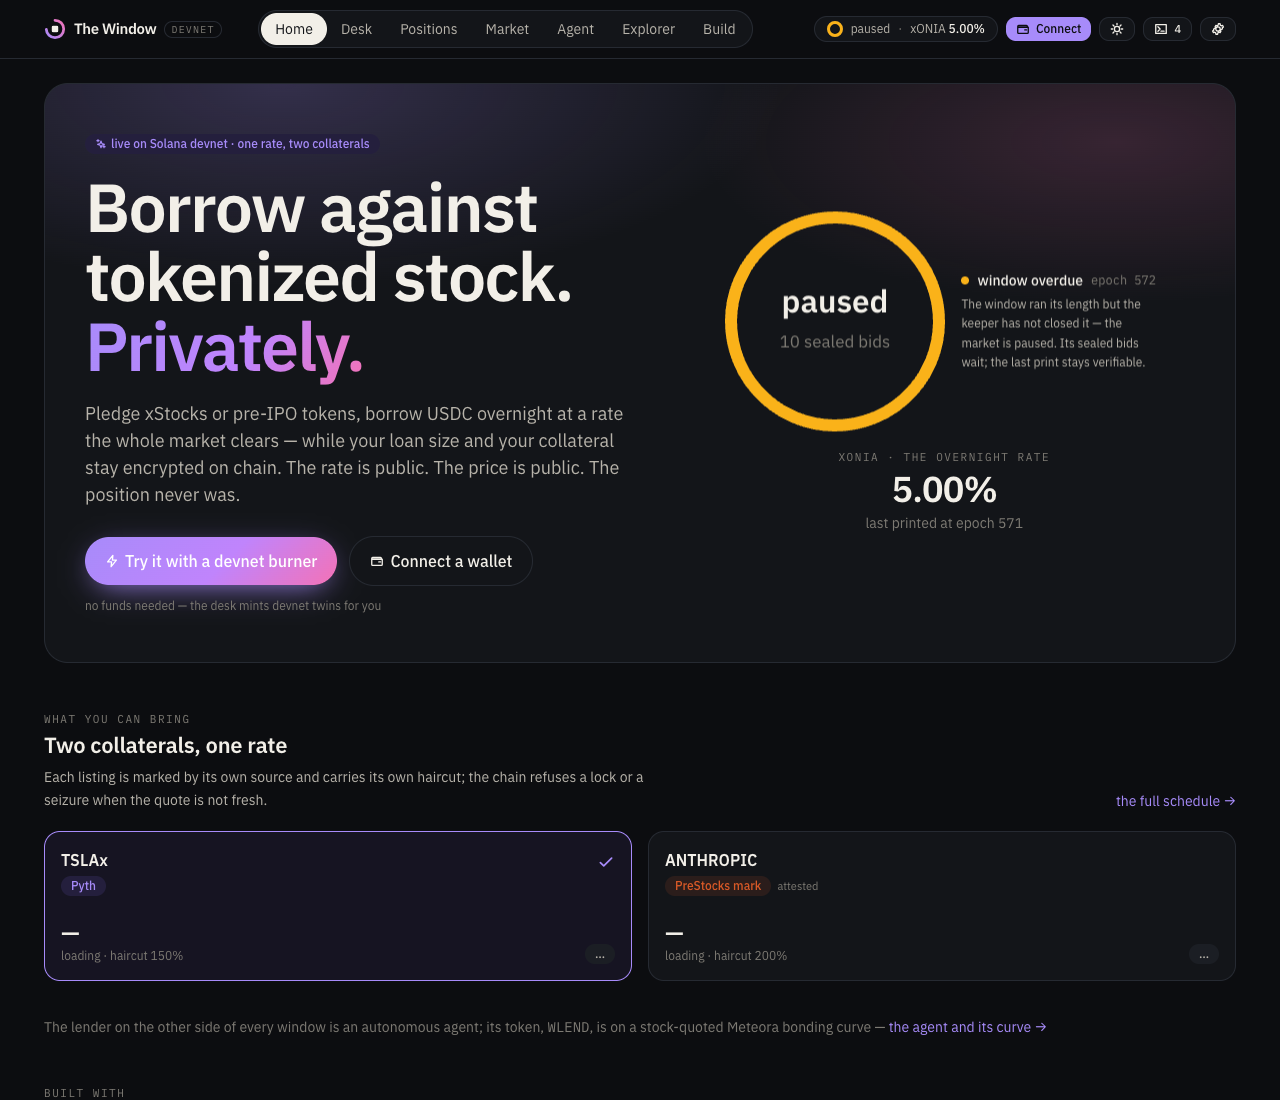
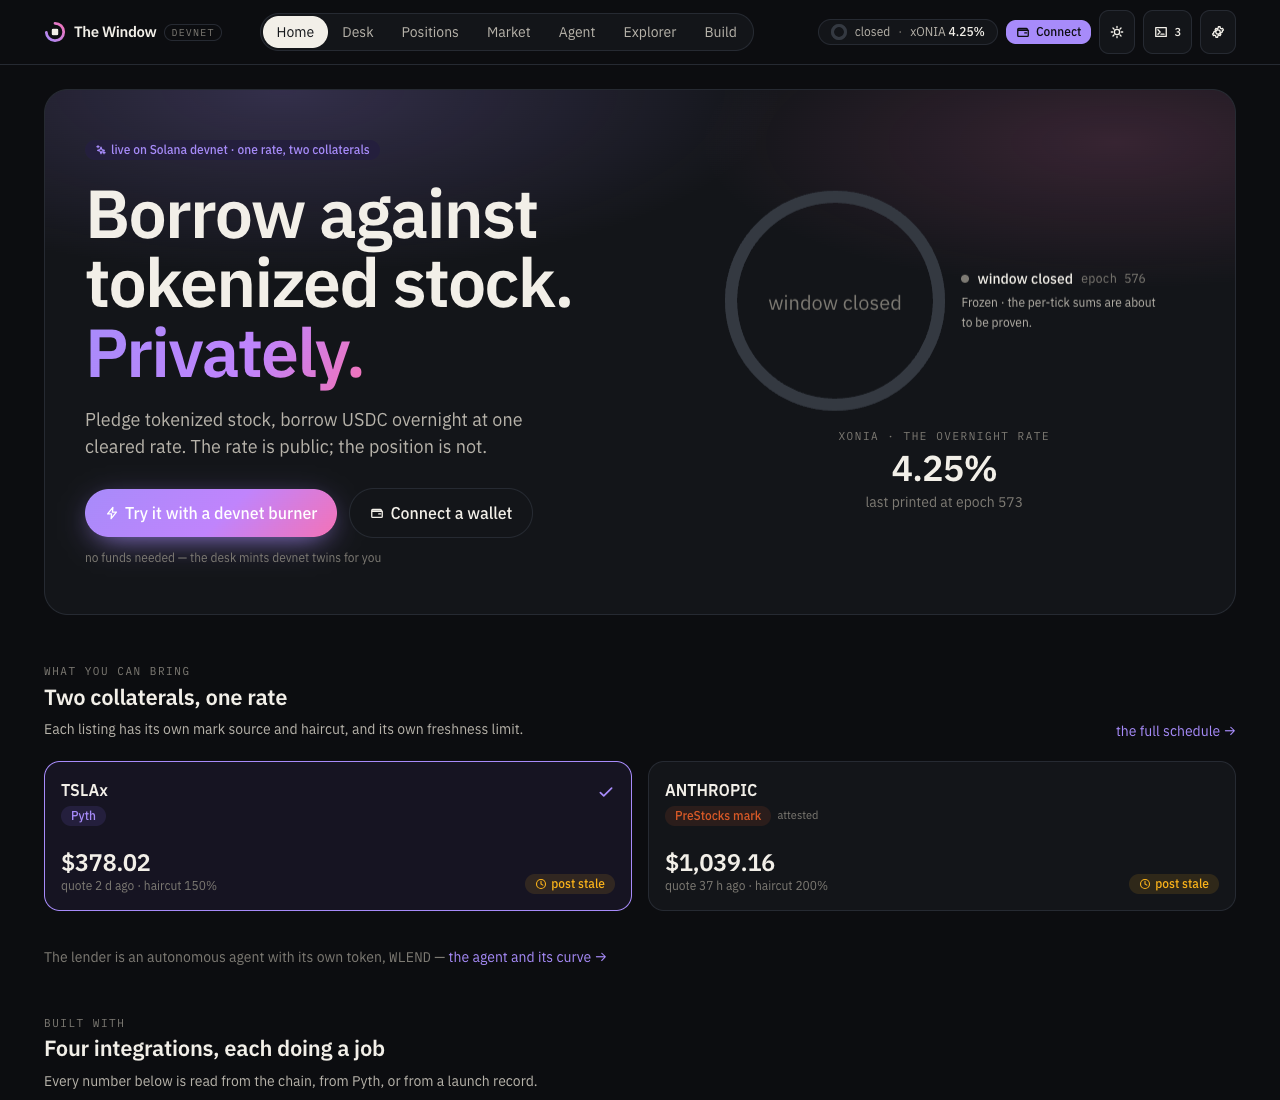
docs: the mainnet pool on the record, and fourteen screenshots that match what is live
The addresses a judge is pointed at should be the ones that exist, so DEMO.md §B now leads
with the mainnet pool, its config and mint, the TSLAx quote, the fee claimer and the
creator that signs but earns nothing, and the LENDER coin on pump.fun — with the devnet
rehearsal kept underneath as what ran first. TRACKS gets the dated entry, including why
the creator cannot be the agent and how offset 245 was established rather than guessed.

`docs/screens/*.png` predated every change in the last two days: the clock fix, the
backdrop, both developer pages, and the copy that is now a third shorter. All fourteen are
re-taken from the live Pages site with `motion=off`, so the field behind the page is held
still and a future re-take differs only where the page does.

diff --git a/docs/TRACKS.md b/docs/TRACKS.md
@@ -293,6 +293,44 @@ from 14 named checks to 25 and all pass, and the write track ran for real from `
 onboard → wrap → bid, five confirmed transactions — and from `#/agent`, whose browser agent sealed
 `lend @ tick 13, 1,571 USDC` in epoch 215. 275 unit tests.
 
+## 25 Sep, later: the pool is on mainnet, and the fees actually reach the agent
+
+The mainnet launch refused to send, and for a good reason. Meteora makes a pool's creator a **signer**;
+the plan set the creator to the agent's Clawpump wallet; and that wallet's key belongs to Clawpump. So
+"the creator is the agent" was never achievable, and the design had conflated two different things.
+
+The fee claimer and the leftover receiver are plain config fields with no signature attached. They are
+now separate from the creator: the launch key signs, the agent claims, and the creator's own shares —
+`creatorTradingFeePercentage` and the migration fee's creator share — are **zero**, so signing earns
+nothing and everything the pool produces reaches one wallet a judge can watch. That is a stronger claim
+than the 50/10 split it replaces, and unlike it, it is true.
+
+| | |
+|---|---|
+| pool | [`Gk98wZsNHAp6i4FEmJ7SwwbQM3tU2n47NXeBaCtFDQux`](https://solscan.io/account/Gk98wZsNHAp6i4FEmJ7SwwbQM3tU2n47NXeBaCtFDQux) |
+| config | [`7JyhrdUxYZ25tUPbHb3mdzHt8gv9Ht9dYv3k756XB5dx`](https://solscan.io/account/7JyhrdUxYZ25tUPbHb3mdzHt8gv9Ht9dYv3k756XB5dx) |
+| WLEND | [`3SpA841y3UGANRnnEosbW8D7q1zirfzCh6ysF3goeBDh`](https://solscan.io/account/3SpA841y3UGANRnnEosbW8D7q1zirfzCh6ysF3goeBDh) |
+| quoted in | TSLAx `XsDoVfqeBukxuZHWhdvWHBhgEHjGNst4MLodqsJHzoB`, priced from `Equity.US.TSLA/USD` at $367.86 |
+| signs, earns nothing | [`3bku8abYECxZxfoXDsTjcCCBv7JMF6BKTREeJLeVDnJX`](https://solscan.io/account/3bku8abYECxZxfoXDsTjcCCBv7JMF6BKTREeJLeVDnJX) |
+| claims every fee | [`39VKQn2Skp67mFYfiFfvRLEKsxaTtHqQWRop5q9cA7sM`](https://solscan.io/account/39VKQn2Skp67mFYfiFfvRLEKsxaTtHqQWRop5q9cA7sM) — The Window Lender |
+| identity coin | `LENDER` [`D9K6pbsDYR7bcj4ugucabzF9rtfVb9AAhNPJgTEzh92k`](https://pump.fun/coin/D9K6pbsDYR7bcj4ugucabzF9rtfVb9AAhNPJgTEzh92k), paired with TSLAx, paid for by the agent's own wallet |
+
+The dashboard's claim moved with the arrangement. "Fees flow to the agent" used to test whether the
+agent was both creator and claimer — after this, impossible — so it now tests what decides the money:
+the claimer is the agent, and the creator keeps none. Reading that needed
+`creatorTradingFeePercentage` in the SDK's raw config decoder, and a byte offset against real funds is
+not something to guess: **offset 245** was found by reading both clusters' live config accounts and
+keeping the single byte that was 0 on mainnet and 50 on devnet, and a fixture test pins it.
+
+Two smaller faults the launch exposed. The identity coin was first recorded against devnet because
+`LAUNCH_CLUSTER` was unset, and a mainnet mint in the devnet file made the page report "identity coin
+pending" about a coin that was already trading — pump.fun has no devnet, so the coin now records
+against the mainnet launch whenever one exists. And `launch-status`'s snippet stopped naming the desk's
+RPC, because the pool it reads is on another cluster; the test that every recipe leads with the
+configured endpoint now states why that one differs rather than failing.
+
+The Agent page reads **5 of 5**, on mainnet, with a live Jupiter link.
+
 ## Submission blurbs (final)
 
 **Pyth.** THE WINDOW is a private margin desk for tokenized stocks. Pyth is not a widget on it — it is a

diff --git a/README.md b/README.md
@@ -29,7 +29,7 @@ Average: the first on-chain borrow rate for tokenized equities.
 | [![Market](docs/screens/market.png)](docs/screens/market.png) | [![Explorer](docs/screens/explorer.png)](docs/screens/explorer.png) |
 | **Market** — xONIA by epoch, the last proven curve, the collateral schedule, the Pyth mark beside the underlying equity, and the PreStocks mark with its implied price and basis. | **Explorer** — one window as the chain holds it, and the button that re-derives the print in your browser. |
 | [![Agent](docs/screens/agent.png)](docs/screens/agent.png) | [![On a phone](docs/screens/home-phone.png)](docs/screens/home-phone.png) |
-| **Agent** — the lender agent: its journey from a Clawpump identity to a graduated pool, the Meteora curve set from the desk's numbers beside what the chain says, and its identity coin. | **On a phone** — the same pages, the same numbers; every card wraps rather than truncates. The tab bar is the nav on a tablet too, up to 1024 px. |
+| **Agent** — the lender agent: its journey from a Clawpump identity to a mainnet pool, the Meteora curve set from the desk's numbers beside what the chain says, its identity coin, and its strategy runnable under your own key. | **On a phone** — the same pages, the same numbers; every card wraps rather than truncates. The tab bar is the nav on a tablet too, up to 1024 px. |
 
 Light and dark themes (the header toggle, or `?theme=light|dark`); the same pages on a phone: [`docs/screens/home-phone.png`](docs/screens/home-phone.png).
 
@@ -137,9 +137,10 @@ The hosted dashboard is built to be hooked into, not just looked at:
   arguments (wallet signatures and bid openings are never rendered), every transaction with an
   inspector (logs, compute units, programs), the window's phase changes, and the programs' events
   decoded as they arrive over the WebSocket.
-- **Agent** (key 5) — the lender agent: its journey to a token on mainnet, the Meteora curve set from the
-  desk's numbers, its Clawpump identity and coin; Home's "built with" strip and the Market's PreStocks card
-  are the other two integration surfaces.
+- **Agent** (key 5) — the lender agent, now live on mainnet: `WLEND` on a Meteora bonding curve quoted in
+  TSLAx with every fee claiming to the agent's own wallet, and its `LENDER` identity coin on pump.fun. The
+  page also runs the agents' own quoting strategy under your key, with each Rust constant as a dial, and
+  lists the six simulated members as addresses you can read off the chain.
 - **Build** (key 7) — recipes that run in the tab against the configured RPC and copy as code
   (read the market, the last print and its curve, re-verify a print, your membership and loans, a
   bid plan dry run, subscribe to events); the five programs' instructions, accounts, events and

diff --git a/docs/DEMO.md b/docs/DEMO.md
@@ -108,7 +108,26 @@ ours, and the depth they provide is not organic demand.
 Bonding Curve quoted in a tokenized stock, configured from the desk's numbers — $25,000 → $250,000
 fully diluted, priced through Pyth `Crypto.TSLAX/USD` at $378.30 per quote
 (the curve raises 162.68 quote before it graduates), fee 300 → 30 bp
-over one tenor, and every trading fee plus 10 % of the raise to the agent. This is a **devnet rehearsal** on a twin quote mint — same program, same configuration, same code path; the mainnet launch is one command (`docs/RUNBOOK.md` §6).
+over one tenor, and every trading fee plus 10 % of the raise to the agent.
+
+**On mainnet since 25 Sep**, quoted in TSLAx itself and priced from Pyth `Equity.US.TSLA/USD`:
+
+| | address |
+|---|---|
+| pool (Meteora DBC) | [`Gk98wZsNHAp6i4FEmJ7SwwbQM3tU2n47NXeBaCtFDQux`](https://solscan.io/account/Gk98wZsNHAp6i4FEmJ7SwwbQM3tU2n47NXeBaCtFDQux) |
+| WLEND mint | [`3SpA841y3UGANRnnEosbW8D7q1zirfzCh6ysF3goeBDh`](https://solscan.io/account/3SpA841y3UGANRnnEosbW8D7q1zirfzCh6ysF3goeBDh) |
+| config | [`7JyhrdUxYZ25tUPbHb3mdzHt8gv9Ht9dYv3k756XB5dx`](https://solscan.io/account/7JyhrdUxYZ25tUPbHb3mdzHt8gv9Ht9dYv3k756XB5dx) |
+| quote mint (TSLAx) | [`XsDoVfqeBukxuZHWhdvWHBhgEHjGNst4MLodqsJHzoB`](https://solscan.io/account/XsDoVfqeBukxuZHWhdvWHBhgEHjGNst4MLodqsJHzoB) |
+| fee claimer — the agent's wallet | [`39VKQn2Skp67mFYfiFfvRLEKsxaTtHqQWRop5q9cA7sM`](https://solscan.io/account/39VKQn2Skp67mFYfiFfvRLEKsxaTtHqQWRop5q9cA7sM) |
+| creator — signs only, earns nothing | [`3bku8abYECxZxfoXDsTjcCCBv7JMF6BKTREeJLeVDnJX`](https://solscan.io/account/3bku8abYECxZxfoXDsTjcCCBv7JMF6BKTREeJLeVDnJX) |
+| launch tx | [`BGuGw4DNpMyypSVcGaBthvQNH8DzbNJq…`](https://solscan.io/tx/BGuGw4DNpMyypSVcGaBthvQNH8DzbNJqHRBTn8cov4dEfWKxmDTatogQAbEMmiJpGct2R1dLKzHPMCZQ7tmmbSW) |
+| identity coin `LENDER` on pump.fun | [`D9K6pbsDYR7bcj4ugucabzF9rtfVb9AAhNPJgTEzh92k`](https://pump.fun/coin/D9K6pbsDYR7bcj4ugucabzF9rtfVb9AAhNPJgTEzh92k) |
+
+Meteora makes a pool's creator a **signer**, and the agent's wallet belongs to Clawpump — so the
+creator is the launch key and its own fee share is set to zero. Every lamport the pool earns reaches
+the agent through the fee claimer, which is the arrangement the Agent page verifies against the chain.
+
+The **devnet rehearsal** below ran the same program, configuration and code path first.
 
 | | address |
 |---|---|
